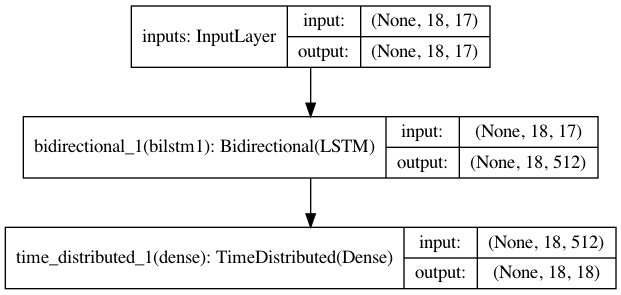
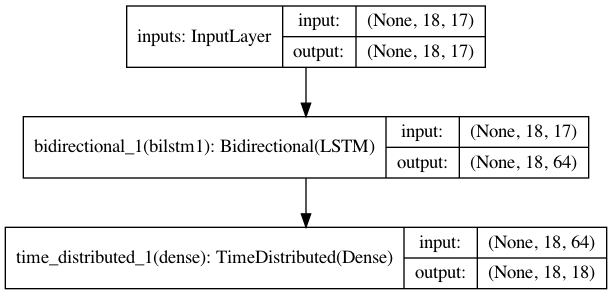
fix: lossがNaNとなるバグを解消

diff --git a/bilstm_model.py b/bilstm_model.py
@@ -5,6 +5,11 @@ from keras.models import save_model, load_model
 from keras.layers import Input, Embedding, LSTM, Dense, Concatenate
 from keras.layers import TimeDistributed, Bidirectional
 from keras.utils import plot_model
+from keras import backend as K
+import tensorflow as tf
+from tensorflow.python import debug as tf_debug
+from tensorflow.python.debug.lib.debug_data import has_inf_or_nan
+from tensorflow.keras.backend import eval
 
 import re
 import sys
@@ -15,6 +20,9 @@ from datetime import datetime, timedelta
 import math
 import numpy as np
 from pprint import pprint
+import numpy as np
+import matplotlib.pyplot as plt
+import seaborn as sns
 
 from scraper import load_race_data, fetch_predicting_data
 
@@ -52,6 +60,9 @@ class BidirectionalLSTMModel:
                       optimizer='Adam',
                       metrics=['categorical_accuracy'])
         return model
+
+    def multi_crossentropy(self, y_true, y_pred):
+        return tf.reduce_mean(tf.nn.softmax_cross_entropy_with_logits(y_true, y_pred))
 
     def train(self, x_input, y_input, batch_size, epochs):
         print("[bilstm] build ...")
@@ -171,11 +182,22 @@ def load(maxlen, n_feature=17):
                 label = np.vstack((label, zero_label))
         list_label.append(label)
 
-    train_x = np.array(list_sr)
-    train_y = np.array(list_label)
+    train_x = np.array(list_sr, dtype=np.float32)
+    train_y = np.array(list_label, dtype=np.float32)
 
     print(train_x.shape)
     print(train_y.shape)
+
+    for i in range(train_x.shape[0]):
+        for j in range(train_x.shape[1]):
+            for k in range(train_x.shape[2]):
+                if np.isnan(train_x[i,j,k]):
+                    print(i, j, train_x[i,j])
+                if np.isinf(train_x[i,j,k]):
+                    print(i, j, train_x[i, j])
+                # print(np.isinf(train_x[i,j]))
+            # print(train_x[i,j])
+    print(np.isinf(train_y))
 
     return train_x, train_y
 
@@ -183,9 +205,12 @@ def train(train_x, train_y, maxlen, model_name):
     # Hyper parameters
     input_dim = 17
     output_dim = 18
-    n_hidden = 256
+    n_hidden = 32
     epochs = 100
-    batch_size = 32
+    batch_size = 16
+
+    print("train_x", train_x.shape)
+    print("train_y", train_y.shape)
 
     BLM = BidirectionalLSTMModel(maxlen=maxlen,
                                  input_dim=input_dim,
@@ -232,7 +257,22 @@ def predict(model_name, input_dim):
     return y
 
 
+# FIXME: TF2.0以上ではsessionがないため使えない
+def set_debugger_session():
+    sess = K.get_session()
+    sess = tf_debug.LocalCLIDebugWrapperSession(sess)
+    sess.add_tensor_filter('has_inf_or_nan', has_inf_or_nan)
+    K.set_session(sess)
+
+
 if __name__ == '__main__':
+    if len(sys.argv) > 1:
+        if sys.argv[1] == '--debug':
+            set_debugger_session()
+        else:
+            # raise ValueError('unknown option {}'.format(sys.argv[1]))
+            pass
+
     maxlen = 18
 
     # Load
@@ -248,6 +288,25 @@ if __name__ == '__main__':
 
     # Infer
     y = predict(model_path, input_dim=17)
-    pprint(y)
+    print(y.shape)
+    np.set_printoptions(suppress=True, precision=5)
+    print(y)
+
+    plt.style.use('default')
+    sns.set()
+    sns.set_style('whitegrid')
+    sns.set_palette('gray')
+
+    label = np.arange(1, maxlen+1)
+    fig = plt.figure(figsize=(16.0, 9.0))
+
+    for i in range(maxlen):
+        d1 = np.array(y[0, i, :])
+        ax1 = fig.add_subplot(maxlen, 1, i+1)
+        ax1.bar(label, d1)
+
+    fig.tight_layout()
+    plt.savefig('result.png')
+    # plt.show()
 
 

diff --git a/scraper.py b/scraper.py
@@ -333,10 +333,12 @@ def parse_weather(data):
         return 0
     elif data == '曇':
         return 1
-    elif data == '雨':
+    elif data == '小雨':
         return 2
-    elif data == '雪':
+    elif data == '雨':
         return 3
+    elif data == '雪':
+        return 4
 
 
 def parse_condition(data):
@@ -468,6 +470,9 @@ def parse_loaded_data(data_dict):
         #     racehead.append(parse_start_time(v))
         elif k == 'weather':
             racehead.append(parse_weather(v))
+            if parse_weather(v) is None:
+                print(v)
+                raise
         elif k == 'condition':
             racehead.append(parse_condition(v))
         else:
